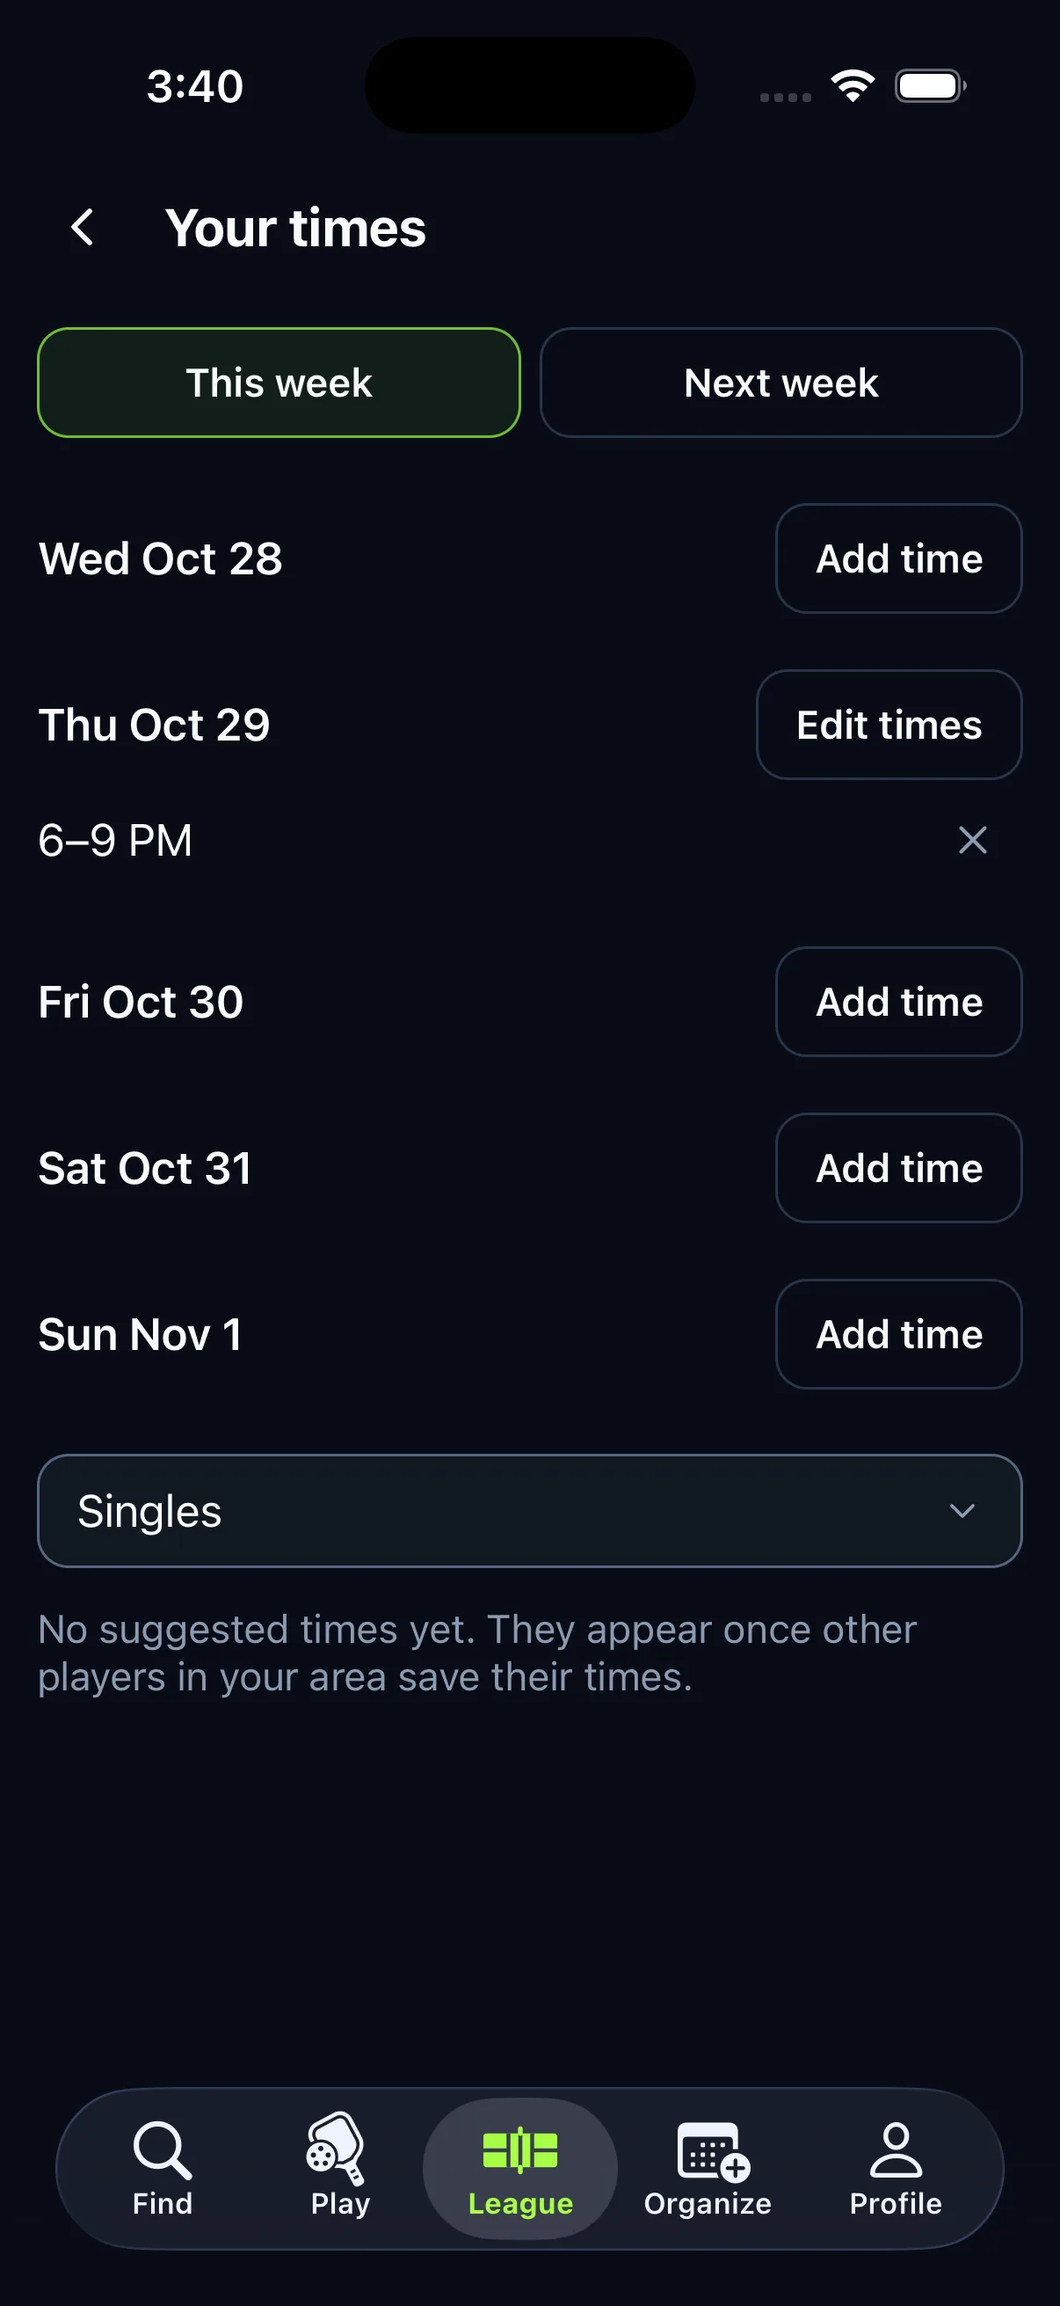
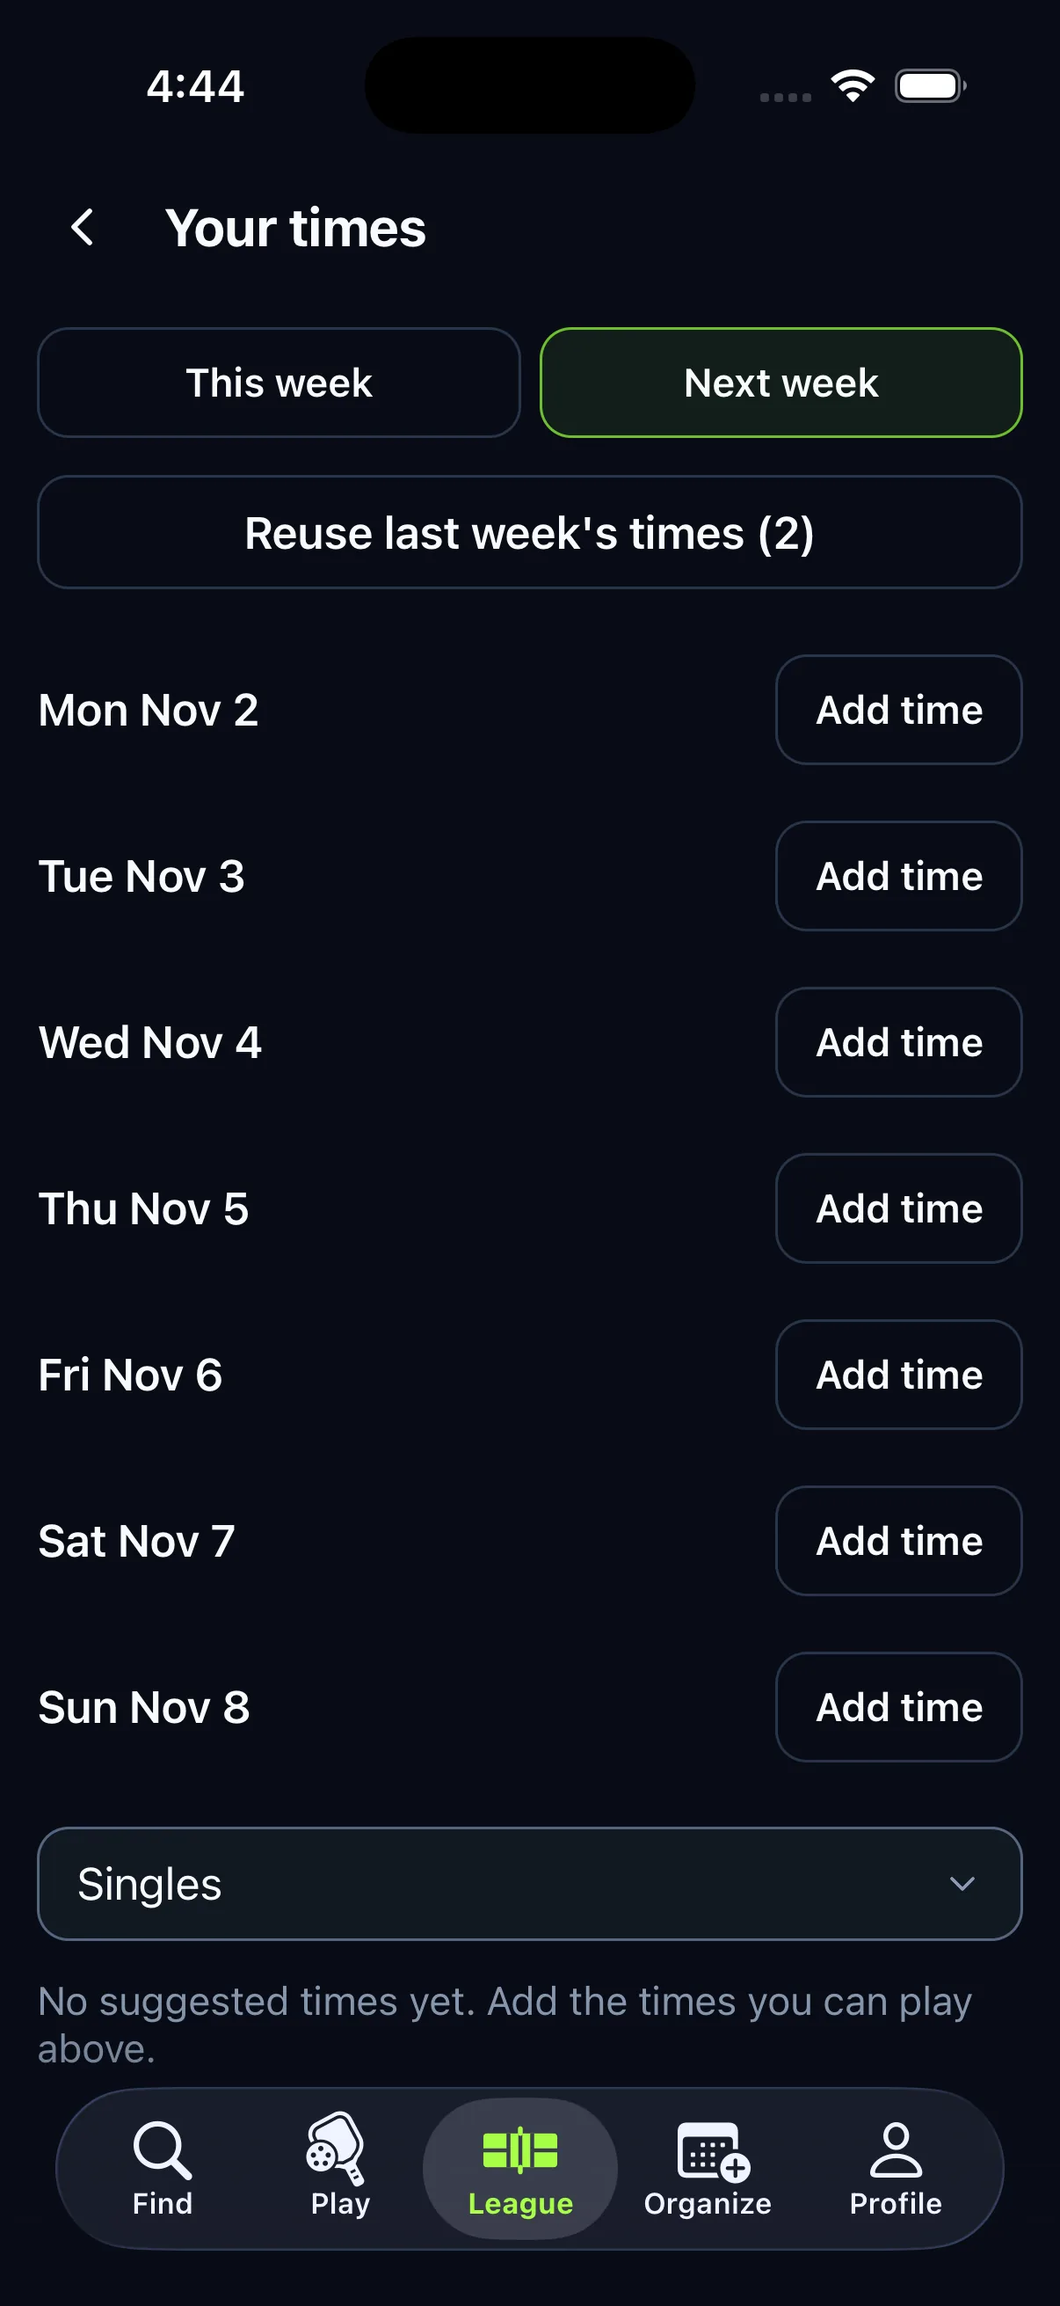
Show matches booked from saved times, suggested times and invite moments
Problem and impact: The League now books a fair match that fits a player's saved times and venues, suggests one time that would find a match while a search waits, and asks new members to bring their regulars. The walkthrough showed none of this. It still said players "accept only the matches you want" and described an auto-accept option in the old words, so anyone reviewing the tour saw the old offer-only model.

Changed outcome: The tour has 99 screens in 17 chapters (was 89 in 15).
- Times that would match (Casey, 4 screens): the suggestion notice, the matching starts on her times, the day sheet with the hours already picked, and the saved time.
- Booked from your times (Casey, 3 screens): the "Confirm matches that fit my times" switch, the "You're playing" notice with its free-cancel time, and the booked match.
- The invite chapter is now "Bring your friends" and opens with Blake's welcome notice and the empty-time line on his times.
- The weekly recap chapter adds a week with no match, which offers "See times that would match" and "Invite friends".
- Retaken: the intro card, matching options, Blake's home, My QR (the private friends-joined count) and Your times (next week).

Example: Before, a reader saw Casey answer a Match found offer and nothing else. Now they see Casey get "Sat 10:00 AM would find you a singles match now", add it, and get "You're playing Sat 10:00 AM ... cancel before Fri 10:00 PM with no late mark" without answering anything.
[…]

diff --git a/index.html b/index.html
@@ -152,7 +152,7 @@ dialog#lb[open] { display: grid; grid-template-rows: auto minmax(0, 1fr) auto; }
 
 <footer class="wrap notes">
   <h2>About this tour</h2>
-  <p>Captured October 27, 2026 on an iPhone 17 Pro simulator running iOS 26.4, in Dark appearance at the Default app text size. Every screen except the iOS notification prompt was taken in one pass through one fictional League story. Every person, match, venue and safety record is fictional local test data.</p>
+  <p>Captured October 27–29, 2026 on an iPhone 17 Pro simulator running iOS 26.4, in Dark appearance at the Default app text size. Every screen except the iOS notification prompt comes from one fictional League story; the booked-match, suggested-time and invite screens were added on October 29. Every person, match, venue and safety record is fictional local test data.</p>
   <p>Screens show the state the app was in at capture time, so some show a step in progress, such as a score waiting for the other side. <a href="current-evidence.md">Verification and known gaps</a> · <a href="current-captures.json">Capture list</a></p>
 </footer>
 
@@ -170,11 +170,11 @@ dialog#lb[open] { display: grid; grid-template-rows: auto minmax(0, 1fr) auto; }
 </dialog>
 
 <script>
-const IMAGE_VERSION = '20261028c';
+const IMAGE_VERSION = '20261029a';
 const CHAPTERS = [
   { id: 'discover', title: 'Discover the League', who: 'What a player sees on the League tab before joining.', person: 'Blake', shots: [
     ['01-intro-match', 'Always open', 'Circuit finds games near you, at your times, against players at your level. Joining is free, any day of the year.'],
-    ['02-intro-week', 'Play when it suits you', 'Pick your times and courts and accept only the matches you want. Skipping a week or saying no costs nothing.'],
+    ['02-intro-week', 'Play when it suits you', 'Pick your times and courts. A match that fits them is booked for you, and skipping a week costs nothing.'],
     ['03-intro-board', 'Climb your area', 'Confirmed results count toward your standing, boards update weekly, and eligible games go to DUPR.'],
     ['03b-landing', 'Before you join', 'The landing names what joining takes, a free DUPR account and about five minutes, and offers a quick sign-up for a friend’s match today.'],
   ]},
@@ -186,16 +186,18 @@ const CHAPTERS = [
     ['07-setup-times', 'Your times', 'Add the times you can play this week or next. Choose times later skips the step, but matchmaking waits for times.'],
     ['07b-setup-time-grid', 'Pick hours', 'Blake taps 6, 7 and 8 PM on Thursday: available 6–9 PM. No time zone shows, because Blake’s phone is on the venues’ clock.'],
     ['07c-setup-times-saved', 'Times saved', 'Thursday 6–9 PM is saved; Edit times or the × changes it.'],
-    ['08-setup-options', 'Matching options', 'Matches are three games to 11, win by 2, and stopping early still counts the games finished. For each format Blake can allow a wider level range after a long wait and auto-accept matches inside his times.'],
+    ['08-setup-options', 'Matching options', 'Matches are three games to 11, win by 2, and stopping early still counts the games finished. For each format Blake can allow a wider level range after a long wait. Confirm matches that fit my times starts on: a fair match inside his saved times and venues is booked, and he is told.'],
     ['08b-setup-same-times', 'Same times every week', 'Starts on, so each Monday matchmaking begins again with last week’s times. Blake can change or skip any week.'],
     ['09-setup-terms', 'Release and terms', 'Join the League stays off until both boxes are checked, and the footer says so.'],
     ['09b-setup-acceptances', 'Both accepted', 'The release and the League terms, including individual arbitration, are accepted separately. The full terms open from the link.'],
     ['10-setup-next', 'You’re in', 'Matches depend on who else is free at your times and venues; some weeks there won’t be one. Start matchmaking turns the search on.'],
     ['10b-setup-notifications-prompt', 'Notifications', 'Match offers need an answer within a few hours, so setup asks for notification permission.'],
     ['10d-setup-check-in', 'Automatic check-in', 'Optional and shown off here. Turned on, location checks Blake in near match time and tells players already checked in. His position stays on his phone.'],
-    ['11-blake-home', 'Blake’s League home', 'Circuit is looking for a first match in Men’s singles and Men’s rotating doubles, with Thursday 6–9 PM saved and Skip this week one tap away.'],
+    ['11-blake-home', 'Blake’s League home', 'Circuit is looking for Blake’s first match in Men’s singles and Men’s rotating doubles, both looking since today. Bring your regulars asks once for the people he already plays with; Not now hides it.'],
   ]},
-  { id: 'invite', title: 'No match yet: invite friends', who: 'After a day of searching with no match, the League asks for help growing the pool.', person: 'Jordan', shots: [
+  { id: 'invite', title: 'Bring your friends', who: 'New members are asked once to bring their regulars. A search still waiting after a day asks again.', person: 'Blake, then Jordan', shots: [
+    ['11a-welcome-push', 'Welcome to the League', 'The morning after Blake starts searching, one welcome notice suggests inviting players near his level. Friends he brings can still earn Founding Member.'],
+    ['11g-invite-empty-time', 'An empty time', 'Nobody near Blake’s level searches Thursday 6–9 PM yet, so his times say so and offer Invite friends. Suggested times appear once other players save theirs.'],
     ['11b-invite-inbox', 'A nudge in the inbox', 'Jordan has searched Men’s singles since yesterday with no match. The inbox suggests inviting a friend from the League tab.'],
     ['11c-invite-prompt', 'Invite friends', 'Opening the League tab shows the suggestion once per search: more Men’s singles players near Jordan’s level could help. It names the category and format, never a made-up count.'],
     ['11d-invite-share', 'Share the link', 'Invite friends opens the share sheet with Jordan’s personal League invite link. A friend who joins through it is credited to Jordan.'],
@@ -215,6 +217,17 @@ const CHAPTERS = [
     ['15-offer-other-times', 'Choose another time', 'Casey can propose Thursday at 8 PM instead. Sofia sees it and can accept, and it counts as accepted by Casey. The time can change two more times.'],
     ['16-offer-decline', 'Not this time', 'Declining has no penalty. A second option also stops matches with Sofia for 7 days.'],
     ['17-offer-accepted', 'Accepted', 'A second offer, Friday at 6 PM against Nora K. Casey has accepted, and the match confirms when Nora does; Nora still hasn’t answered.'],
+  ]},
+  { id: 'suggest', title: 'Times that would match', who: 'When a search waits, Circuit suggests one time that would find a match now.', person: 'Casey', shots: [
+    ['48b-suggest-inbox', 'A time that would match', 'Casey’s singles search has waited more than a day without a new match. At most once a day, a notice names one time that would find one: Saturday at 10 AM.'],
+    ['48c-suggest-times', 'Match possible now', 'Opening it shows Casey’s times with the starts that would match right now. Below, nobody near her level searches Friday 6–9 PM, with Invite friends.'],
+    ['48d-suggest-sheet', 'Add the time', 'Tapping Saturday 10 AM opens that day with 10 AM to 12 PM already picked. Save times adds it.'],
+    ['48e-suggest-saved', 'Saved', 'Saturday 10 AM–12 PM sits beside Friday 6–9 PM, and singles matchmaking stays on. The next matching run booked Saturday against Nora.'],
+  ]},
+  { id: 'booked', title: 'Booked from your times', who: 'A fair match that fits your saved times and venues is booked for you, at least 12 hours ahead.', person: 'Casey', shots: [
+    ['17b-booked-switch', 'Confirm matches that fit my times', 'Each search has the switch in its settings, on by default. Turned off, every match waits for Casey to answer.'],
+    ['17c-booked-inbox', 'You’re playing', 'Circuit booked Saturday 10 AM against Nora at Mueller Lake Park Courts, because it fits both players’ saved times. Casey can cancel before Friday 10 PM with no late mark.'],
+    ['17d-booked-match', 'The booked match', 'Confirmed, with the free-cancel time under Add to calendar. Casey’s singles search stopped for this match; Find another match starts it again.'],
   ]},
   { id: 'matches', title: 'Confirmed matches and chat', who: 'Everything about a booked match in one place.', person: 'Casey', shots: [
     ['19-match-upcoming', 'Match details', 'Confirmed for tomorrow, Thursday at 6 PM. Casey’s singles search stopped for this match; Find another match starts it again, and match chat has two unread messages.'],
@@ -259,6 +272,7 @@ const CHAPTERS = [
     ['40-recap-summary', 'Summary', 'The same week in detail: 4 new opponents, 7 of 8 matches toward the season completion badge, two Clutch wins and each leaderboard.'],
     ['40b-recap-summary-lower', 'Every match', 'All of the week’s scores, winner first, with each game beside its player.'],
     ['40c-recap-summary-end', 'What next', 'Badges, then notable results: a 7–5 game record against 4–0 the week before. View standings, or start matchmaking for the new week.'],
+    ['40d-recap-no-match', 'A week without a match', 'Casey had no League match in the week of Oct 5. The summary offers See times that would match, which opens her times, and Invite friends.'],
   ]},
   { id: 'teams', title: 'Fixed teams', who: 'Doubles with the same partner every game.', person: 'Casey', shots: [
     ['41-add-team', 'New team', 'Choose Women’s or Mixed doubles, then Create invite link. There is no player search: a partner is someone Casey already knows.'],
@@ -270,13 +284,13 @@ const CHAPTERS = [
     ['44-scan', 'Plan the match', 'The nearest League venues come first, each with its distance, when the phone already allows location. Without it, saved venues lead.'],
     ['44b-scan-venue-chosen', 'Venue chosen', 'Picking a venue folds the list to it, with Change to pick again, then the format and Create match plan.'],
     ['44c-scan-waiting', 'Scan players', 'One of two players is in, so Scan a player is the next step. Start publishes the match once everyone has confirmed on their own phone.'],
-    ['45-my-code', 'My QR', 'The code a host scans, in Circuit green and black. It doubles as an invite link, and can be reset in League settings.'],
+    ['45-my-code', 'My QR', 'The code a host scans, in Circuit green and black. It doubles as an invite link, and only Casey sees that 2 friends joined with it. It can be reset in League settings.'],
   ]},
   { id: 'settings', title: 'Settings, times and venues', who: 'Everything that shapes matchmaking stays editable after setup.', person: 'Casey', shots: [
     ['46-settings', 'League settings', 'Times, venues, same times every week, pausing offers until Monday, notifications and check-in.'],
     ['46b-settings-lower', 'Privacy and safety', 'Full-name display, resetting your code, blocked players, conduct record and League rules. To step away, turn off matchmaking.'],
     ['47-notification-settings', 'Notifications', 'Each League alert type has its own switch. Account and safety notices stay on.'],
-    ['48-times', 'Your times', 'This week and next, with Thursday 6–9 PM saved. Suggested times for Singles appear once other players in the area save theirs.'],
+    ['48-times', 'Your times', 'Next week is empty so far. Reuse last week’s times copies Casey’s two saved times; suggested times appear once other players save theirs.'],
     ['49-venues', 'Saved venues', 'One ranked favorite and one backup, 2 of 25 venues saved.'],
     ['50-venue-detail', 'Venue detail', 'Court details, directions, your choice for this venue, popular times when there is enough data, the venue leaderboard and a printable flyer.'],
   ]},

diff --git a/README.md b/README.md
@@ -6,7 +6,7 @@ One page follows two fictional players through Circuit League on iPhone. Blake j
 
 The original 84 screens were captured on October 26, 2026 on an iPhone 17 Pro simulator (iOS 26.4) in Dark appearance at the Default app text size. Most come from one walkthrough of the app on local main, after commit `e4e2ed091` and the setup check-in step fix that followed it. Ten were recaptured that evening after the second polish pass and the new match chat reactions (local main `8babf9c93`). Seven more were captured or recaptured later that night after the reaction badge and standings info changes (local main `b9c600d12`). Eighteen were recaptured after that, once in-app times showed a zone only when the phone's clock differs and Scan to play listed the nearest venues first (local main `01e6c876f`). Three team screens were recaptured last, once partner invites became link-only (local main `ee207be70`). Two chat screens were replaced and three added after League and Ladder chat moved to one shared message menu, with Reply, Copy, Mute, Report and Block (local main `8d80f68cc`). Tap any screen to step through the tour full size; arrow keys and swipes move between screens, and `#s12`-style links open a specific screen.
 
-Eleven screens were recaptured on October 27 with a rebuilt fictional League and current local app source (commit `b36cbc2d9` plus an uncommitted native-menu icon fix). The new match and team states may differ from the original story. The post-join check-in screen was opened using a temporary development-only setup entry that was reverted after capture. Twenty of those and neighbouring screens were then recaptured from one rebuilt world (local main `9c88f0cb2`), so Casey's match, team, scores and standings agree across the tour. On October 28, nine screens were retaken and the Category rule screen was removed after the category-rule wording, the chat People sheet and the score report date changes (local main `40fe473c7`); the tour now has 84 screens.
+Eleven screens were recaptured on October 27 with a rebuilt fictional League and current local app source (commit `b36cbc2d9` plus an uncommitted native-menu icon fix). The new match and team states may differ from the original story. The post-join check-in screen was opened using a temporary development-only setup entry that was reverted after capture. Twenty of those and neighbouring screens were then recaptured from one rebuilt world (local main `9c88f0cb2`), so Casey's match, team, scores and standings agree across the tour. On October 28, nine screens were retaken and the Category rule screen was removed after the category-rule wording, the chat People sheet and the score report date changes (local main `40fe473c7`); the tour now has 84 screens. Later that day five screens were added in an Invite friends chapter (89 screens). On October 29, ten screens were added and five retaken for matches booked from saved times, suggested times and invite moments (local main `04f49b8b2` plus uncommitted League copy fixes); the tour now has 99 screens in 17 chapters.
 
 All people, matches, venues and safety records are fictional local test data. [Capture list](current-captures.json) names every screen and its source file. [Verification and known gaps](current-evidence.md) records what was checked and what the tour does not show.
 

diff --git a/current-evidence.md b/current-evidence.md
@@ -1,6 +1,18 @@
 # Walkthrough evidence
 
-Updated October 28, 2026 (Invite friends chapter).
+Updated October 29, 2026 (booked matches, suggested times and invite moments).
+
+## Booked matches, suggested times and invite moments (October 29)
+
+Ten screens were added and five retaken after the League started booking matches that fit a player's saved times, suggesting a time that would match, and asking new members to bring their regulars (99 screens in 17 chapters).
+
+- **New chapters.** Times that would match (48b–48e) and Booked from your times (17b–17d), both Casey. The invite chapter is now Bring your friends and opens with Blake's welcome notice (11a) and the empty-time line on his times (11g) before Jordan's screens. The weekly recap chapter adds a week with no match (40d).
+- **Retaken.** 02 intro (new wording: a match that fits your times is booked for you), 08 matching options (Confirm matches that fit my times, on), 11 Blake's home (new first-time line and the Bring your regulars card), 45 My QR (the private friends-joined count) and 48 Your times (next week, with Reuse last week's times).
+- **App.** Pickleball-Tournaments local main `04f49b8b2` plus uncommitted copy fixes to the League intro and the first-time line. Nothing is pushed or deployed.
+- **Data.** Same isolated local database and fictional story. Casey's singles search was backdated two days, and a new fictional player, Nora, saved Saturday 10 AM–1 PM. The time suggestion came from the League's own suggestion worker; it was first suppressed by Casey's daily notice limit, so her earlier fixture notices were dated a day back and the suggestion was produced again. Casey saved the suggested time and turned on Confirm matches that fit my times in the app; the next matching run booked Saturday against Nora and the outbox delivered the confirmation. Five backfilled recap rows and a duplicate score reminder were removed from Casey's inbox and older rows marked read, so the inbox reads like a real week. The two friends who joined with Casey's code were recorded directly in the database. Older fixture deliveries were held back so the new notices were not stuck behind them.
+- **Checks.** Every new image was reviewed for development banners, loading states and keyboards. Dark appearance, Default text size. The page loads all 99 images at full size with `?v=20261029a`, has no sideways scroll at 360, 390 and 1280 px, and the full-screen viewer opens, steps and closes.
+- **Known gaps.** Jordan's screens 23–26 are from October 28 and still show the earlier first-time line ("You'll get a Match found to accept or skip") above the invite prompt. Screen 38 says "Everyone still needs to accept" because Casey's switch was still off when it was taken; it was turned on in screen 41. The no-match recap (40d) offers Start matchmaking although Casey's singles search is on.
+
 
 ## Invite friends chapter (October 28, evening)
 
